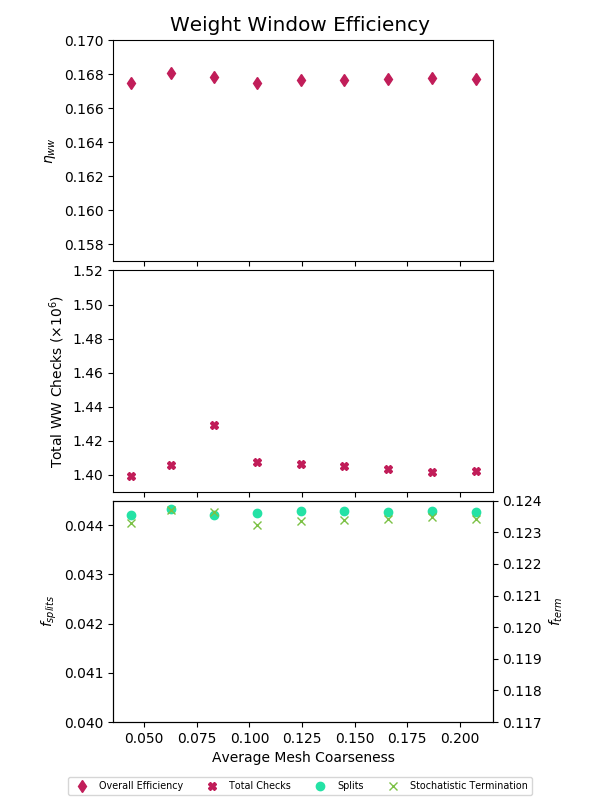
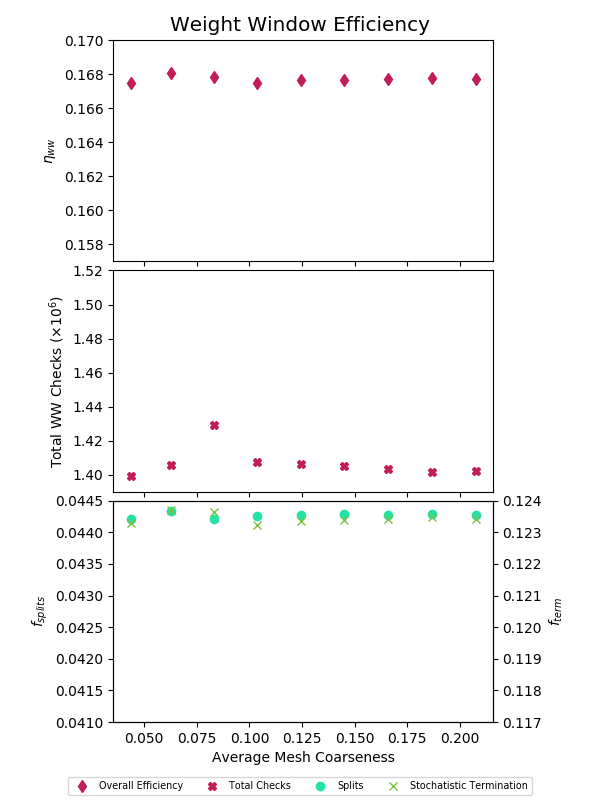
even better y lim'

diff --git a/performance-analysis/analysis/plot_tally_data.py b/performance-analysis/analysis/plot_tally_data.py
@@ -441,7 +441,7 @@ def plot_ww_efficiency(df_output, refinement, df_measure=None):
     if df_measure is not None:
         ax[0].set_ylim((0.157, 0.17))  ## overall
         ax[1].set_ylim((1.39, 1.52))  ## total num
-        ax[2].set_ylim((0.04, 0.0445))  ## f splits
+        ax[2].set_ylim((0.041, 0.0445))  ## f splits
         ax2.set_ylim((0.117, 0.124))  # f terms
 
     title = 'Weight Window Efficiency'
